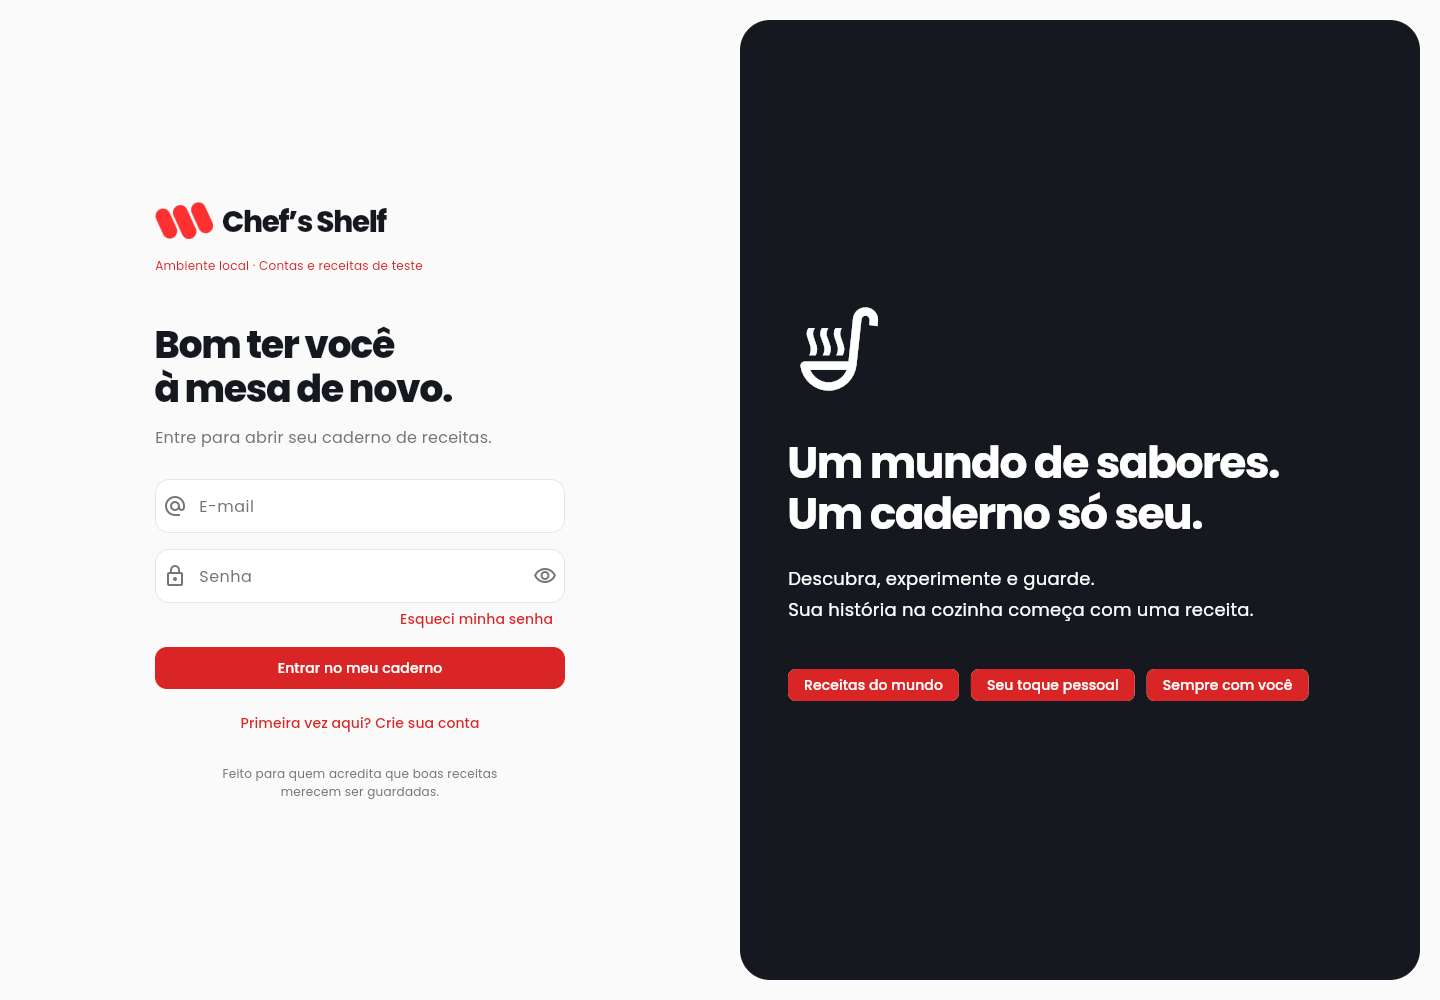
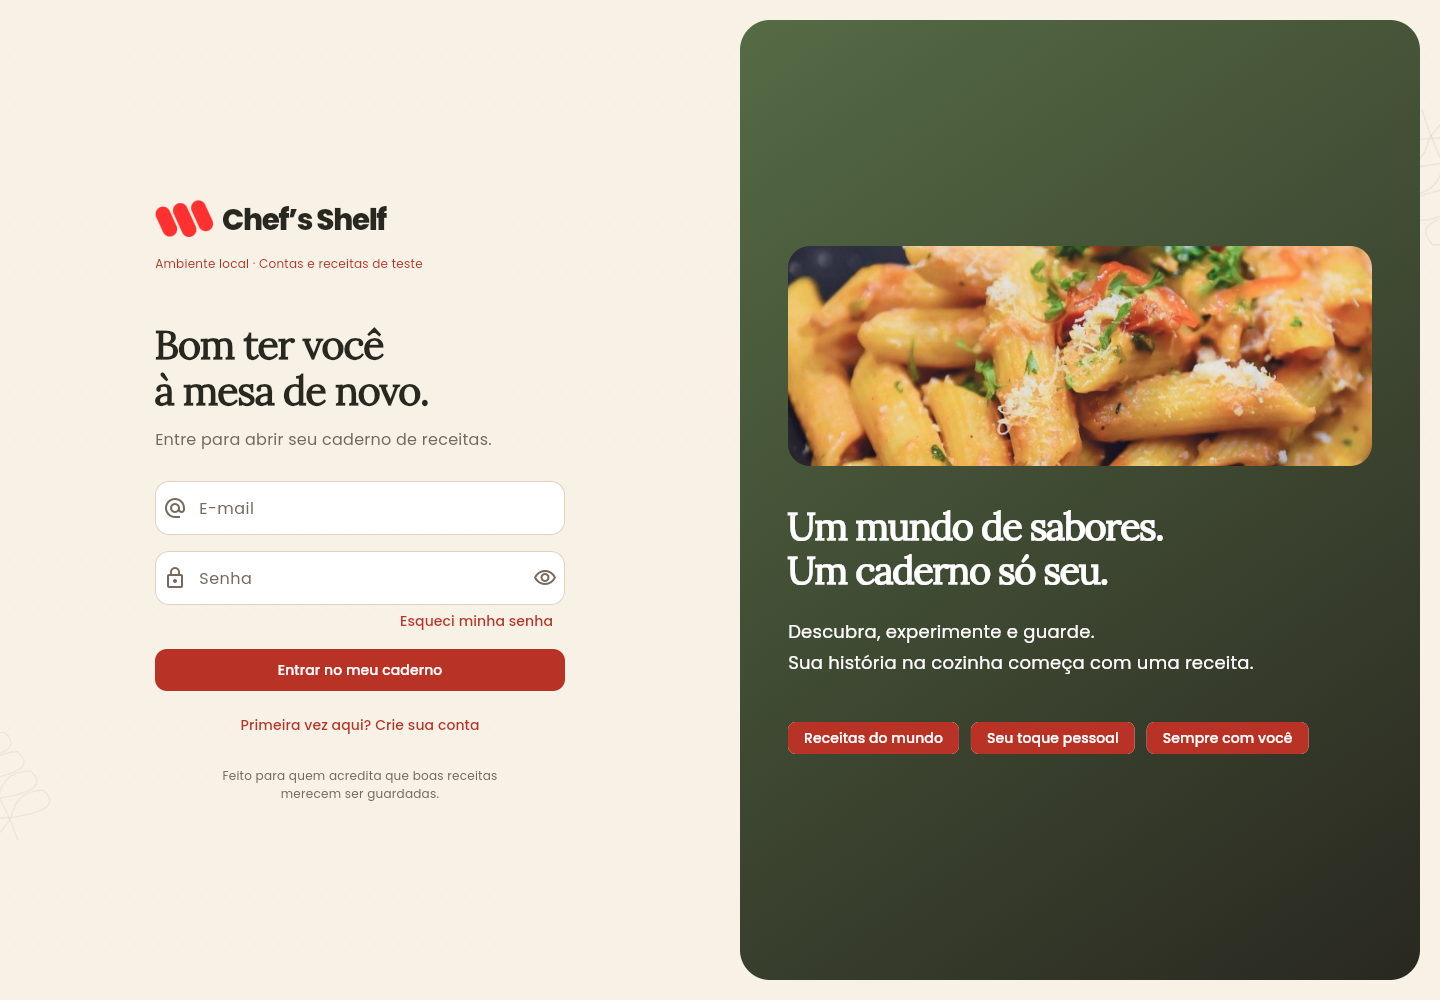
feat: completa origens em português e registra a interface validada

diff --git a/lib/features/recipes/domain/recipe_language.dart b/lib/features/recipes/domain/recipe_language.dart
@@ -29,6 +29,166 @@ abstract final class RecipeLanguage {
   };
 
   static const areas = {
+    'Afghan': 'Afegã',
+    'Albanian': 'Albanesa',
+    'Algerian': 'Argelina',
+    'Andorran': 'Andorrana',
+    'Angolan': 'Angolana',
+    'Antiguan, Barbudan': 'De Antígua e Barbuda',
+    'Argentine': 'Argentina',
+    'Armenian': 'Armênia',
+    'Aruban': 'De Aruba',
+    'Austrian': 'Austríaca',
+    'Azerbaijani': 'Azerbaijana',
+    'Bahamian': 'Das Bahamas',
+    'Bahraini': 'Do Bahrein',
+    'Bangladeshi': 'De Bangladesh',
+    'Barbadian': 'De Barbados',
+    'Belarusian': 'Bielorrussa',
+    'Belgian': 'Belga',
+    'Belizean': 'De Belize',
+    'Beninese': 'Do Benim',
+    'Bermudian': 'Das Bermudas',
+    'Bhutanese': 'Do Butão',
+    'Bolivian': 'Boliviana',
+    'Bosnian, Herzegovinian': 'Da Bósnia e Herzegovina',
+    'Motswana': 'De Botsuana',
+    'Bruneian': 'De Brunei',
+    'Bulgarian': 'Búlgara',
+    'Burkinabe': 'De Burkina Faso',
+    'Burundian': 'Do Burundi',
+    'Cambodian': 'Cambojana',
+    'Cameroonian': 'Camaronesa',
+    'Cape Verdian': 'Cabo-verdiana',
+    'Caymanian': 'Das Ilhas Cayman',
+    'Central African': 'Da República Centro-Africana',
+    'Chadian': 'Do Chade',
+    'Chilean': 'Chilena',
+    'Colombian': 'Colombiana',
+    'Costa Rican': 'Costa-riquenha',
+    'Cuban': 'Cubana',
+    'Cypriot': 'Cipriota',
+    'Czech': 'Tcheca',
+    'Danish': 'Dinamarquesa',
+    'Djibouti': 'Do Djibuti',
+    'Dominican': 'Dominicana',
+    'Congolese': 'Congolesa',
+    'Ecuadorean': 'Equatoriana',
+    'Salvadoran': 'Salvadorenha',
+    'Equatorial Guinean': 'Da Guiné Equatorial',
+    'Eritrean': 'Eritreia',
+    'Estonian': 'Estoniana',
+    'Ethiopian': 'Etíope',
+    'Faroese': 'Das Ilhas Faroé',
+    'Fijian': 'De Fiji',
+    'Finnish': 'Finlandesa',
+    'Gabonese': 'Gabonesa',
+    'Gambian': 'Gambiana',
+    'Georgian': 'Georgiana',
+    'German': 'Alemã',
+    'Ghanaian': 'Ganesa',
+    'Gibraltar': 'De Gibraltar',
+    'Greenlandic': 'Groenlandesa',
+    'Grenadian': 'De Granada',
+    'Guadeloupian': 'De Guadalupe',
+    'Guamanian': 'De Guam',
+    'Guatemalan': 'Guatemalteca',
+    'Channel Islander': 'Das Ilhas do Canal',
+    'Guinean': 'Da Guiné',
+    'Guinea-Bissauan': 'Da Guiné-Bissau',
+    'Guyanese': 'Guianense',
+    'Haitian': 'Haitiana',
+    'Honduran': 'Hondurenha',
+    'Hong Konger': 'De Hong Kong',
+    'Hungarian': 'Húngara',
+    'Icelander': 'Islandesa',
+    'Indonesian': 'Indonésia',
+    'Iranian': 'Iraniana',
+    'Iraqi': 'Iraquiana',
+    'Israeli': 'Israelense',
+    'Ivorian': 'Da Costa do Marfim',
+    'Jordanian': 'Jordaniana',
+    'Kazakhstani': 'Do Cazaquistão',
+    'Kosovar': 'Do Kosovo',
+    'Kuwaiti': 'Do Kuwait',
+    'Kirghiz': 'Do Quirguistão',
+    'Laotian': 'Laosiana',
+    'Latvian': 'Letã',
+    'Lebanese': 'Libanesa',
+    'Mosotho': 'Do Lesoto',
+    'Liberian': 'Liberiana',
+    'Libyan': 'Líbia',
+    'Liechtensteiner': 'De Liechtenstein',
+    'Lithuanian': 'Lituana',
+    'Luxembourger': 'Luxemburguesa',
+    'Malagasy': 'Malgaxe',
+    'Malawian': 'Do Maláui',
+    'Maldivan': 'Das Maldivas',
+    'Malian': 'Do Mali',
+    'Maltese': 'Maltesa',
+    'Mauritian': 'Das Ilhas Maurício',
+    'Moldovan': 'Moldava',
+    'Mongolian': 'Mongol',
+    'Montenegrin': 'Montenegrina',
+    'Mozambican': 'Moçambicana',
+    'Burmese': 'Birmanesa',
+    'Namibian': 'Namibiana',
+    'Nepalese': 'Nepalesa',
+    'New Zealander': 'Neozelandesa',
+    'Nicaraguan': 'Nicaraguense',
+    'Nigerien': 'Do Níger',
+    'Nigerian': 'Nigeriana',
+    'North Korean': 'Norte-coreana',
+    'Macedonian': 'Da Macedônia do Norte',
+    'Norwegian': 'Norueguesa',
+    'Omani': 'De Omã',
+    'Pakistani': 'Paquistanesa',
+    'Palestinian': 'Palestina',
+    'Panamanian': 'Panamenha',
+    'Papua New Guinean': 'Da Papua-Nova Guiné',
+    'Paraguayan': 'Paraguaia',
+    'Peruvian': 'Peruana',
+    'Puerto Rican': 'Porto-riquenha',
+    'Qatari': 'Do Catar',
+    'Romanian': 'Romena',
+    'Rwandan': 'Ruandesa',
+    'Saint Lucian': 'De Santa Lúcia',
+    'Samoan': 'Samoana',
+    'Sammarinese': 'De San Marino',
+    'Senegalese': 'Senegalesa',
+    'Serbian': 'Sérvia',
+    'Seychellois': 'Das Seicheles',
+    'Sierra Leonean': 'De Serra Leoa',
+    'Singaporean': 'De Singapura',
+    'Slovak': 'Eslovaca',
+    'Slovene': 'Eslovena',
+    'Solomon Islander': 'Das Ilhas Salomão',
+    'Somali': 'Somali',
+    'South African': 'Sul-africana',
+    'South Korean': 'Sul-coreana',
+    'South Sudanese': 'Sul-sudanesa',
+    'Sri Lankan': 'Do Sri Lanka',
+    'Sudanese': 'Sudanesa',
+    'Surinamer': 'Surinamesa',
+    'Swedish': 'Sueca',
+    'Swiss': 'Suíça',
+    'Syrian': 'Síria',
+    'Taiwanese': 'Taiwanesa',
+    'Tadzhik': 'Do Tajiquistão',
+    'Tanzanian': 'Tanzaniana',
+    'Togolese': 'Togolesa',
+    'Tongan': 'De Tonga',
+    'Trinidadian': 'De Trinidad e Tobago',
+    'Turkmen': 'Do Turcomenistão',
+    'Tuvaluan': 'De Tuvalu',
+    'Ugandan': 'Ugandesa',
+    'Emirati': 'Dos Emirados Árabes Unidos',
+    'Uzbekistani': 'Do Uzbequistão',
+    'Ni-Vanuatu': 'De Vanuatu',
+    'Venezuelan': 'Venezuelana',
+    'Yemeni': 'Iemenita',
+    'Zambian': 'Zambiana',
+    'Zimbabwean': 'Zimbabuana',
     'American': 'Americana',
     'Argentinian': 'Argentina',
     'Australian': 'Australiana',
@@ -66,6 +226,8 @@ abstract final class RecipeLanguage {
   };
 
   static String category(String value) => categories[value] ?? value;
+  static String recipeCount(int count) =>
+      '$count ${count == 1 ? 'receita' : 'receitas'}';
   static String area(String value) => areas[value] ?? value;
 
   static String? searchCategory(String query) => const {

diff --git a/lib/features/recipes/presentation/home_screen.dart b/lib/features/recipes/presentation/home_screen.dart
@@ -39,6 +39,8 @@ class _HomeScreenState extends State<HomeScreen> {
   final _saving = <String>{};
   final _opening = <String>{};
   int _tab = 0;
+  int _visibleCount = 12;
+  String _pagedQuery = '';
   String _category = 'Todas';
   bool _alphabetical = false;
 
@@ -355,6 +357,10 @@ class _HomeScreenState extends State<HomeScreen> {
 
   Widget _content(List<Recipe> saved, AsyncSnapshot<List<Recipe>> notebook) {
     final discovering = _tab == 0;
+    if (_pagedQuery != _search.query) {
+      _pagedQuery = _search.query;
+      _visibleCount = 12;
+    }
     final filtered = saved
         .where(
           (r) =>
@@ -373,6 +379,9 @@ class _HomeScreenState extends State<HomeScreen> {
       'Todas',
       ...saved.map((r) => r.category).where((s) => s.isNotEmpty),
     };
+    final displayed = discovering
+        ? _search.recipes.take(_visibleCount)
+        : filtered;
     return SingleChildScrollView(
       key: PageStorageKey('tab-$_tab'),
       padding: const EdgeInsets.all(24),
@@ -405,7 +414,7 @@ class _HomeScreenState extends State<HomeScreen> {
               Text(
                 discovering
                     ? 'Descubra novos sabores e leia as receitas em português ao abrir.'
-                    : '${saved.length} receitas, muitas possibilidades. Tudo com o seu toque.',
+                    : '${RecipeLanguage.recipeCount(saved.length)}, muitas possibilidades. Tudo com o seu toque.',
                 style: const TextStyle(color: ShelfColors.muted, fontSize: 15),
               ),
               const SizedBox(height: 26),
@@ -564,7 +573,9 @@ class _HomeScreenState extends State<HomeScreen> {
                     ),
                     const Spacer(),
                     Text(
-                      '${(discovering ? _search.recipes : filtered).length} receitas',
+                      RecipeLanguage.recipeCount(
+                        (discovering ? _search.recipes : filtered).length,
+                      ),
                       style: const TextStyle(
                         color: ShelfColors.muted,
                         fontSize: 12,
@@ -587,9 +598,7 @@ class _HomeScreenState extends State<HomeScreen> {
                     return Wrap(
                       spacing: 20,
                       runSpacing: 20,
-                      children: (discovering ? _search.recipes : filtered).map((
-                        recipe,
-                      ) {
+                      children: displayed.map((recipe) {
                         final isSaved = saved.any((r) => r.id == recipe.id);
                         return SizedBox(
                           width: width,
@@ -619,6 +628,30 @@ class _HomeScreenState extends State<HomeScreen> {
                     );
                   },
                 ),
+                if (discovering && _search.recipes.length > _visibleCount)
+                  Padding(
+                    padding: const EdgeInsets.only(top: 24),
+                    child: Center(
+                      child: Column(
+                        children: [
+                          Text(
+                            'Mostrando ${displayed.length} de ${_search.recipes.length}',
+                            style: const TextStyle(
+                              color: ShelfColors.muted,
+                              fontSize: 12,
+                            ),
+                          ),
+                          const SizedBox(height: 10),
+                          OutlinedButton.icon(
+                            onPressed: () =>
+                                setState(() => _visibleCount += 12),
+                            icon: const Icon(Icons.add_rounded),
+                            label: const Text('Ver mais receitas'),
+                          ),
+                        ],
+                      ),
+                    ),
+                  ),
               ],
               const SizedBox(height: 36),
               const Divider(color: ShelfColors.line),

diff --git a/test/recipe_translation_test.dart b/test/recipe_translation_test.dart
@@ -3,6 +3,7 @@ import 'dart:io';
 import 'package:chefs_shelf/core/app_failure.dart';
 import 'package:chefs_shelf/features/recipes/data/recipe_translator.dart';
 import 'package:chefs_shelf/features/recipes/domain/recipe.dart';
+import 'package:chefs_shelf/features/recipes/domain/recipe_language.dart';
 import 'package:flutter_test/flutter_test.dart';
 import 'package:http/http.dart' as http;
 import 'package:http/testing.dart';
@@ -27,6 +28,20 @@ http.Response translated(String text) => http.Response.bytes(
 );
 
 void main() {
+  test('all catalogue origins have local Portuguese labels', () {
+    final body =
+        jsonDecode(File('test/fixtures/areas.json').readAsStringSync())
+            as Map<String, dynamic>;
+    for (final area in body['meals'] as List) {
+      expect(
+        RecipeLanguage.areas.containsKey(area['strArea']),
+        isTrue,
+        reason: area['strArea'] as String,
+      );
+    }
+    expect(RecipeLanguage.recipeCount(1), '1 receita');
+    expect(RecipeLanguage.recipeCount(2), '2 receitas');
+  });
   test(
     'translates a complete snapshot, preserves measures, caches and never sends notes',
     () async {

diff --git a/README.md b/README.md
@@ -29,6 +29,8 @@ A tradução usa o endpoint HTTPS documentado [MyMemory](https://mymemory.transl
 
 O cache de tradução é limitado e dura a sessão, com chave pelo conteúdo da receita; versões salvas no Firestore mantêm o texto traduzido. Receitas já editadas permanecem intactas. Consultas por categoria carregam resumos e buscam ingredientes/preparo apenas ao abrir ou salvar. A chave pública `1` do TheMealDB é destinada a desenvolvimento/uso educacional; confira os [termos da API](https://www.themealdb.com/api.php) antes de uma distribuição comercial.
 
+A descoberta mostra 12 cartões inicialmente e oferece **Ver mais receitas**. Isso evita baixar as fotos de toda uma categoria de uma vez. Categorias e todas as origens do catálogo consultado têm rótulos locais em português.
+
 ## Começar localmente, sem conta Firebase
 
 Pré-requisitos: **Flutter 3.38.10 / Dart 3.10.9**, **Node 22 ou 24**, **Java 21** e Git. A versão Flutter está em `.fvmrc`; dependências estão fixadas em `pubspec.lock` e `package-lock.json`.
@@ -235,4 +237,4 @@ O logo mantém as três cápsulas vermelhas inclinadas e a assinatura Chef’s S
 
 Os testes de tradução usam respostas controladas para verificar cache, preservação de quantidades, cotas e recuperação de falhas. No teste de navegador, apenas o serviço de tradução é simulado; Auth, Firestore e TheMealDB continuam reais. Em ambientes com lista de domínios permitidos, libere também `api.mymemory.translated.net` para validar a tradução ao vivo.
 
-Se o Chromium do ambiente gerenciado não conhecer a CA do proxy, execute o teste de navegador com `CHEFS_PROXY_CA_FETCH=1`. Essa opção busca os arquivos reais do SDK Firebase com `curl`, usando a CA configurada e verificação TLS ativa; o navegador recebe os mesmos módulos oficiais. Ela só muda o transporte do teste e não é usada pelo aplicativo nem pela CI pública.
+Se o Chromium do ambiente gerenciado não conhecer a CA do proxy, execute o teste de navegador com `CHEFS_PROXY_CA_FETCH=1`. Essa opção busca os arquivos reais do SDK Firebase e as respostas e fotografias reais do TheMealDB com `curl`, usando a CA configurada e verificação TLS ativa. Ela só muda o transporte do teste e não é usada pelo aplicativo nem pela CI pública.

diff --git a/docs/VALIDACAO.md b/docs/VALIDACAO.md
@@ -1,6 +1,16 @@
 # Validação e limites da entrega
 
-## Verificado neste ambiente
+## Atualização de interface e tradução — 27/10/2026
+
+- Fundo vetorial de papel marfim e ervas, títulos Lora locais, destaque de receita responsivo e painel pautado para ingredientes com contador de itens separados.
+- Busca por categorias reais em português, carregamento completo de resumos ao abrir/salvar e cartões em blocos de 12.
+- Tradução de título, medidas, ingredientes e preparo, cache por conteúdo, consulta ao original e preservação de edições e notas pessoais. As origens atuais do catálogo têm rótulos locais.
+- `flutter analyze`: sem apontamentos. `flutter test --coverage`: **28 testes aprovados**. Testes oficiais de Auth/Firestore: **9 aprovados**. Web release compilada com recursos gráficos e fontes locais.
+- O teste de navegador validou cadastro, categorias, busca, detalhes em português, consulta ao original, salvamento, edição, exclusão, logout e login em desktop e celular. As capturas ficam em `docs/screenshots/`.
+
+O provedor de tradução online é simulado nos testes para evitar dependência de cota e disponibilidade. Há também uma receita completa com tradução revisada por conteúdo, coberta por fixture real do TheMealDB. API, SDK Firebase e emuladores continuam reais. O domínio do MyMemory não está liberado para acesso ao vivo neste ambiente; o app trata indisponibilidade/cota mantendo o original e a opção de tentar novamente. Nenhuma configuração de produção foi necessária para os testes. O APK Android não foi recompilado nesta alteração de interface e conteúdo.
+
+## Histórico da validação original
 
 | Verificação | Resultado |
 | --- | --- |
